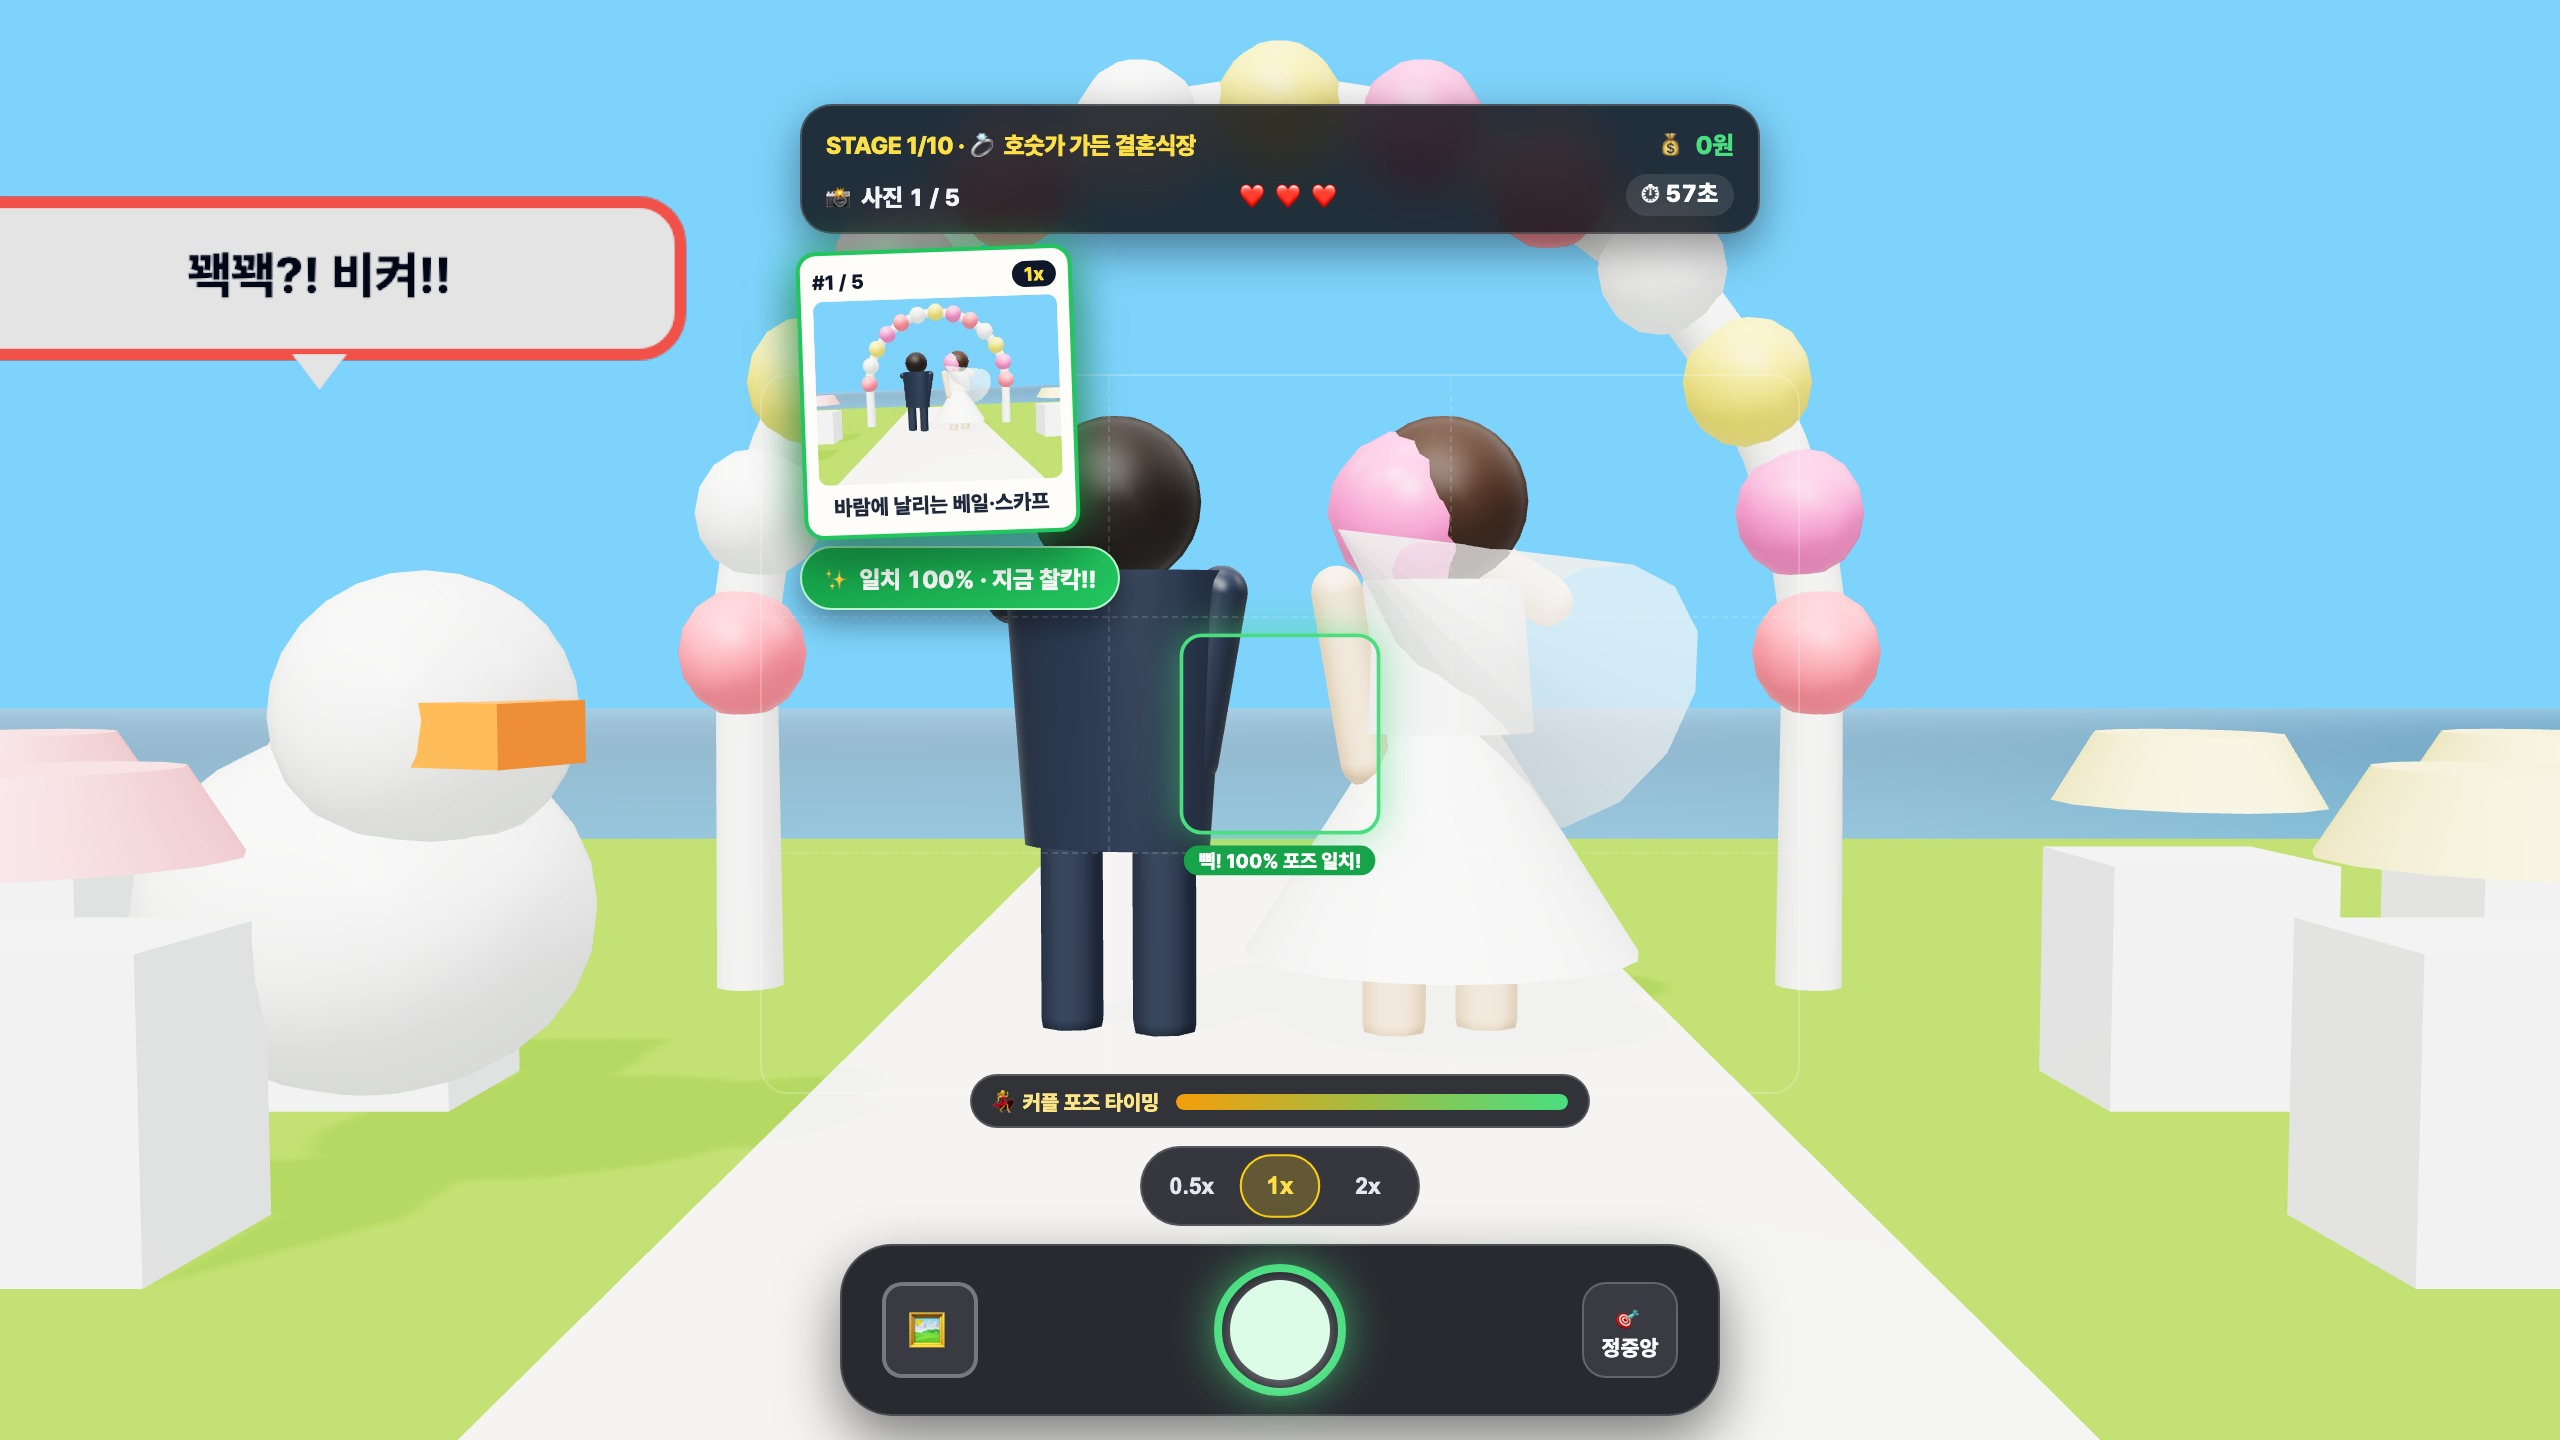
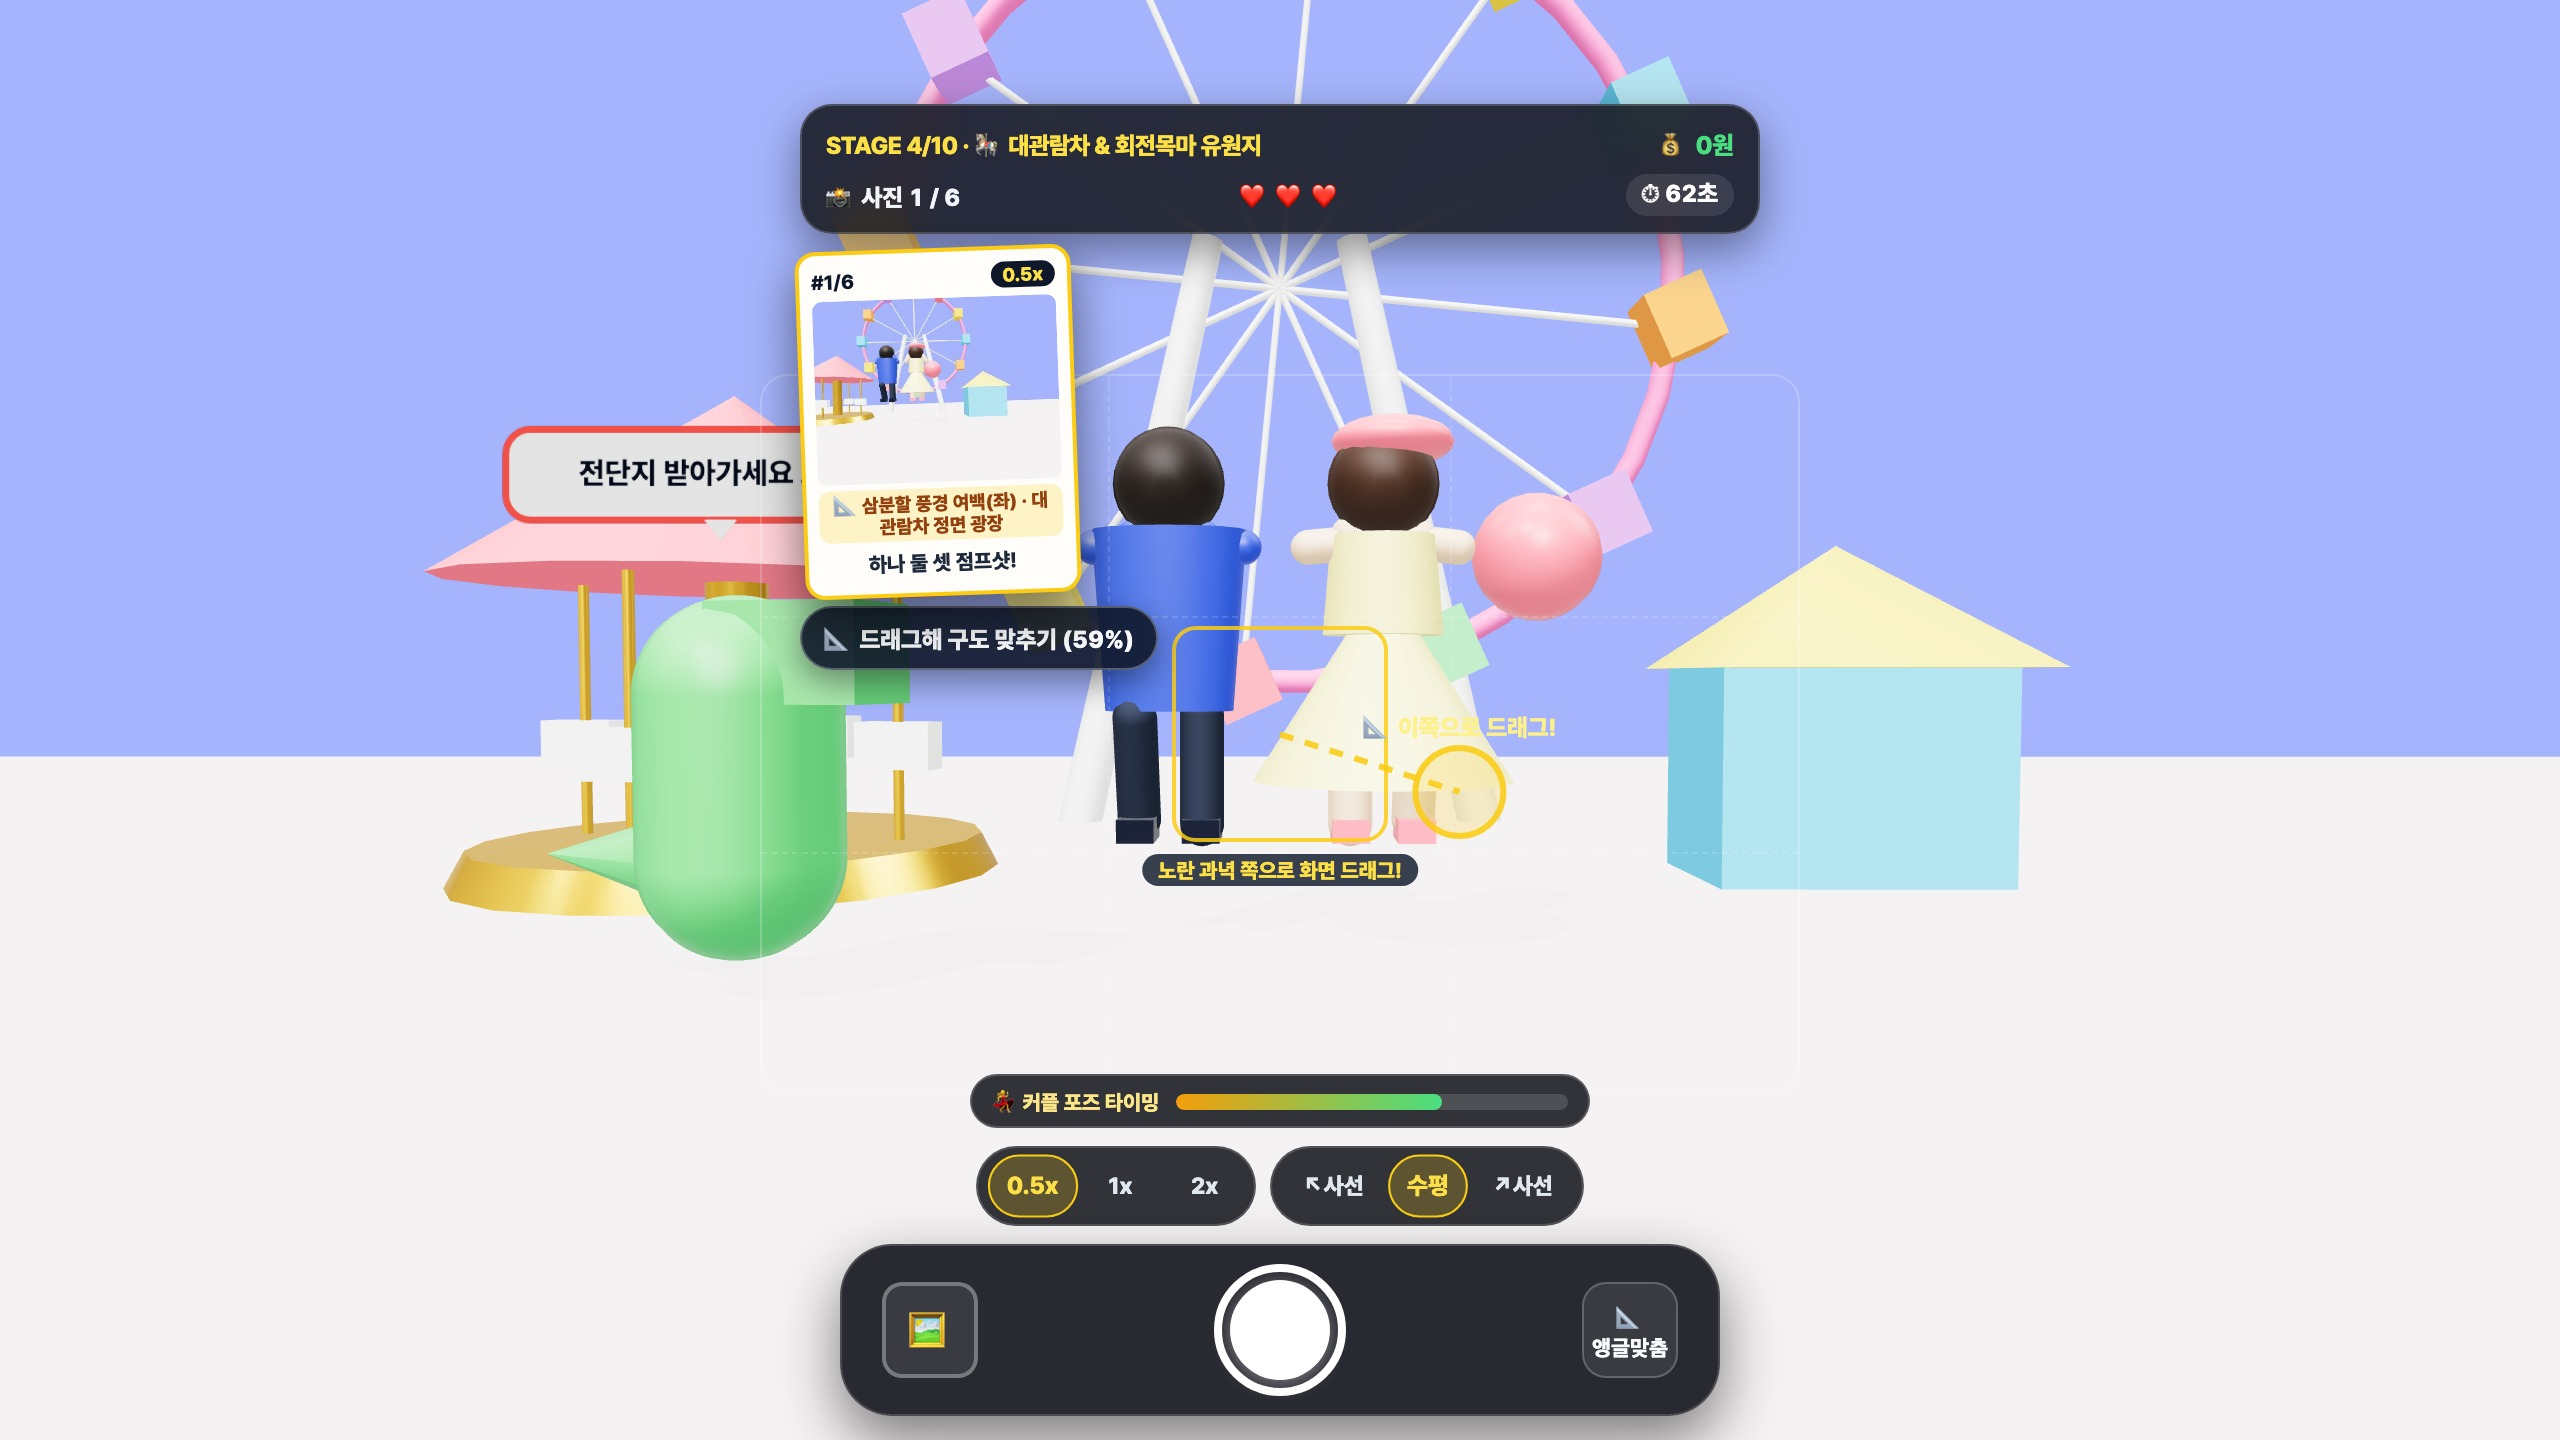
feat(snap): 12종 다이내믹 촬영 구도 및 10대 명소 멀티 포토존 확장

diff --git a/snap/game.js b/snap/game.js
@@ -1326,6 +1326,8 @@ const STATE = {
   posePhase: 0,
   poseAmount: 0,
   currentMatchPct: 0,
+  recentPeakMatch: 0,
+  recentPeakTimer: 0,
   isBlockedByChaos: false,
   blockingChaosLabel: '',
   prevReadyLock: false,
@@ -1349,24 +1351,31 @@ function getResponsiveCamBaseDist() {
 function applyDynamicCamera({
   spot, comp, uVal, vVal, zoomVal, tiltVal, swaySec = 0, stageLv = 1, instant = false,
 }) {
-  const fov = zoomVal === 0.5 ? 56 : zoomVal === 2 ? 26 : 40;
+  const fov = zoomVal === 0.5 ? 58 : zoomVal === 2 ? 25 : 40;
   if (instant || Math.abs(camera.fov - fov) > 0.05) {
     camera.fov = instant ? fov : lerp(camera.fov, fov, 0.35);
     camera.updateProjectionMatrix();
   }
 
-  const dist = getResponsiveCamBaseDist();
-  // uVal: 좌우 궤도 방위각(±42°) + 삼분할 여백 시선 이동을 자연스럽게 결합!
+  const baseDist = getResponsiveCamBaseDist();
+  // 하이앵글·로우앵글일 때 거리를 살짝 당겨 구도 입체감을 드라마틱하게 강조!
+  const dist = baseDist * (1 - Math.abs(vVal) * 0.18);
+
+  // uVal: 좌우 궤도 방위각(±50°) + 삼분할 여백 시선 이동을 결합!
   const isThirds = comp && (comp.id === 'wide_thirds_l' || comp.id === 'wide_thirds_r');
-  const orbitYaw = spot.rotY + (isThirds ? uVal * 0.18 : uVal * 0.68);
-  const lookSideShift = isThirds ? uVal * 2.35 : uVal * 0.35;
+  const orbitYaw = spot.rotY + (isThirds ? uVal * 0.22 : uVal * 0.88);
+  const lookSideShift = isThirds ? uVal * 2.85 : uVal * 0.45;
 
-  // vVal: 음수면 바닥 가까이 무릎 꿇은 로우앵글(하늘 올려다봄!), 양수면 위에서 내려다보는 하이앵글!
-  const camHeight = clamp(2.45 + vVal * 2.55, 0.55, 5.8);
-  const baseLookY = (comp && comp.focusFeet) ? 0.85 : 1.90;
-  const lookHeight = baseLookY - vVal * 0.55;
+  // vVal: 음수면 바닥 위 0.38m에서 하늘을 올려다보는 극적 로우앵글, 양수면 9.2m 위에서 내려다보는 MZ 항공 하이앵글!
+  const camHeight = vVal >= 0
+    ? lerp(2.35, 9.2, clamp(vVal / 1.15, 0, 1.15))
+    : lerp(2.35, 0.38, clamp(-vVal / 1.10, 0, 1.0));
+  const baseLookY = (comp && comp.focusFeet) ? 0.72 : 1.95;
+  const lookHeight = vVal >= 0
+    ? baseLookY - vVal * 0.45
+    : baseLookY + (-vVal) * 0.95;
 
-  const swayAmp = (swaySec > 0 && stageLv > 2) ? Math.min(0.16, 0.03 + stageLv * 0.013) : 0;
+  const swayAmp = (swaySec > 0 && stageLv > 2) ? Math.min(0.15, 0.025 + stageLv * 0.012) : 0;
   const sx = swaySec > 0 ? Math.sin(swaySec * 1.9) * swayAmp : 0;
   const sy = swaySec > 0 ? Math.cos(swaySec * 2.4) * (swayAmp * 0.6) : 0;
 
@@ -1382,7 +1391,7 @@ function applyDynamicCamera({
   );
 
   // 사선(더치 앵글) 카메라 롤 회전 적용!
-  const targetRoll = tiltVal * (12.5 * DEG);
+  const targetRoll = tiltVal * (15.5 * DEG);
   if (instant) {
     STATE.smoothRoll = targetRoll;
   } else {
@@ -1541,7 +1550,8 @@ function updateActiveChaos(dt, nowSec) {
   STATE.blockingChaosLabel = '';
 
   const curM = STATE.missions[STATE.missionIdx];
-  const camYaw = curM ? (curM.spot.rotY + STATE.dragU * 0.55) : 0;
+  const isThirds = curM && curM.comp && (curM.comp.id === 'wide_thirds_l' || curM.comp.id === 'wide_thirds_r');
+  const camYaw = curM ? (curM.spot.rotY + STATE.dragU * (isThirds ? 0.22 : 0.88)) : 0;
   const rightX = Math.cos(camYaw);
   const rightZ = -Math.sin(camYaw);
   const fwdX = Math.sin(camYaw);
@@ -1665,6 +1675,9 @@ function loadCurrentMissionCard() {
   }
   $('ref-cap').textContent = m.poseLabel;
   clearActiveChaos();
+  STATE.recentPeakMatch = 0;
+  STATE.recentPeakTimer = 0;
+  STATE.chaosTimer = Math.max(STATE.chaosTimer, 1.35);
   setupMissionStartCamera(m);
 }
 
@@ -1726,8 +1739,8 @@ $('btn-recenter').innerHTML = '<span>📐</span><span>앵글맞춤</span>';
 $('btn-recenter').addEventListener('click', () => {
   const m = STATE.missions[STATE.missionIdx];
   if (!m) return;
-  STATE.dragU = lerp(STATE.dragU, m.targetU, 0.85);
-  STATE.dragV = lerp(STATE.dragV, m.targetV, 0.85);
+  STATE.dragU = lerp(STATE.dragU, m.targetU, 0.94);
+  STATE.dragV = lerp(STATE.dragV, m.targetV, 0.94);
   STATE.currentZoom = m.zoom;
   STATE.currentTilt = m.tilt;
   SFX.tick();
@@ -1880,7 +1893,9 @@ function triggerShutter() {
   const shotUrl = captureCurrentCanvasAsDataURL(0.85);
   const cfg = STAGE_CONFIGS[STATE.stageIdx];
   const m = STATE.missions[STATE.missionIdx];
-  const matchPct = STATE.currentMatchPct;
+  const matchPct = STATE.isBlockedByChaos
+    ? STATE.currentMatchPct
+    : Math.max(STATE.currentMatchPct, STATE.recentPeakMatch);
 
   if (STATE.isBlockedByChaos || matchPct < cfg.minMatch) {
     SFX.photoFail();
@@ -2247,6 +2262,18 @@ function tick(now) {
 
     updateActiveChaos(dt, nowSec);
     STATE.currentMatchPct = evaluateLiveMatch();
+    if (!STATE.isBlockedByChaos) {
+      if (STATE.currentMatchPct >= STATE.recentPeakMatch) {
+        STATE.recentPeakMatch = STATE.currentMatchPct;
+        STATE.recentPeakTimer = 0.28;
+      } else {
+        STATE.recentPeakTimer -= dt;
+        if (STATE.recentPeakTimer <= 0) STATE.recentPeakMatch = STATE.currentMatchPct;
+      }
+    } else {
+      STATE.recentPeakMatch = 0;
+      STATE.recentPeakTimer = 0;
+    }
 
     const readyNow = !STATE.isBlockedByChaos && STATE.currentMatchPct >= cfg.minMatch;
     if (readyNow && !STATE.prevReadyLock) SFX.focusBeep();
